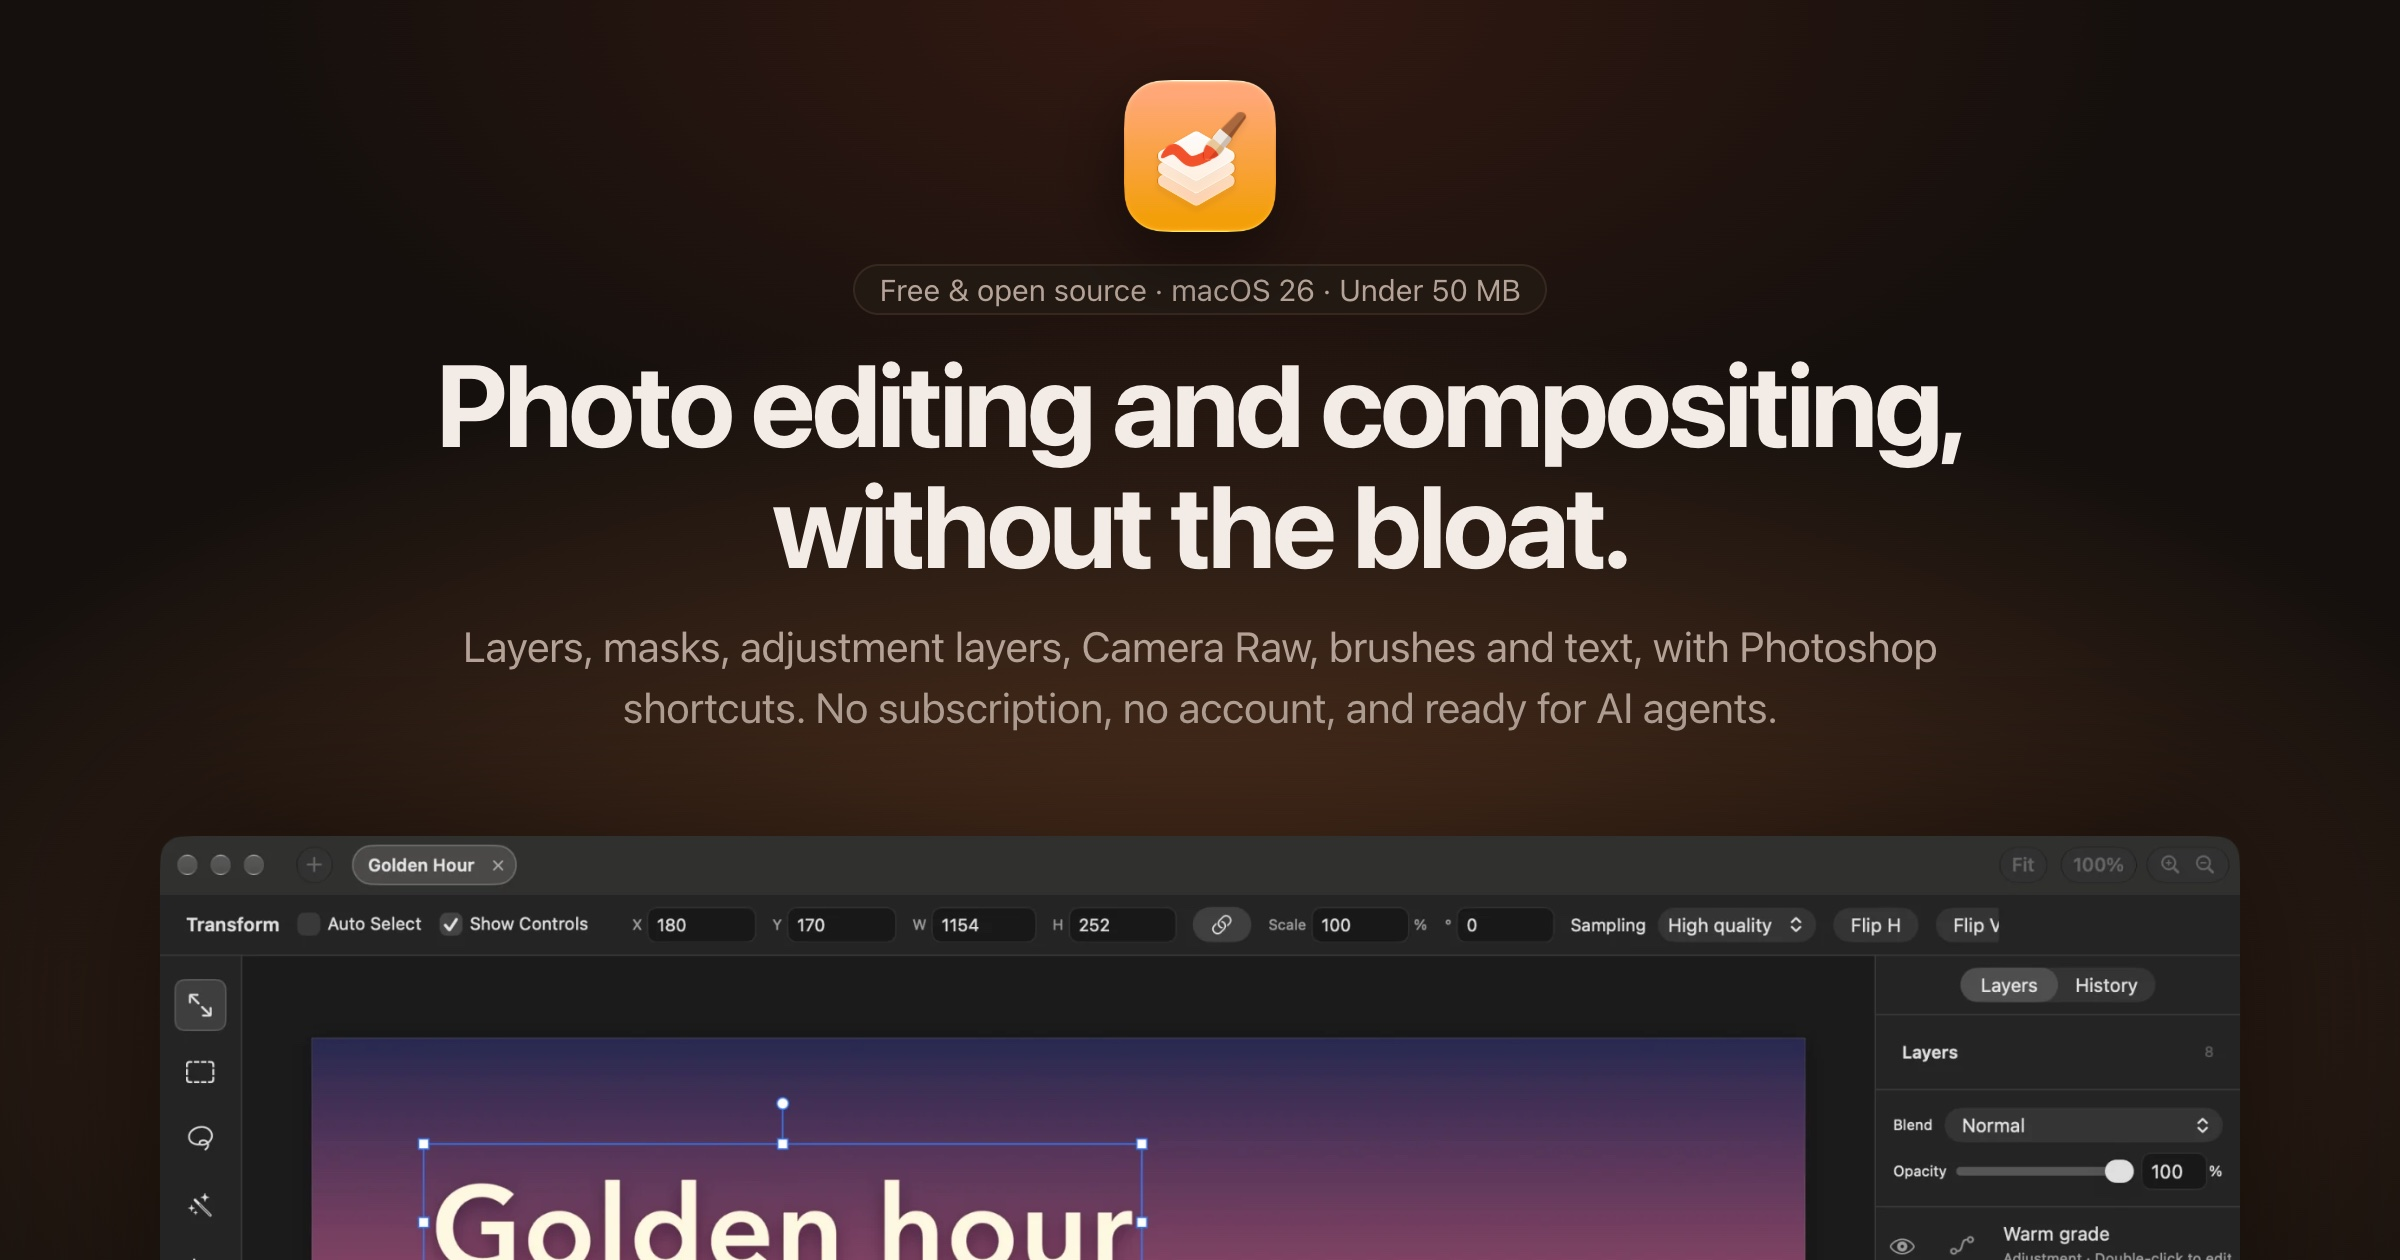
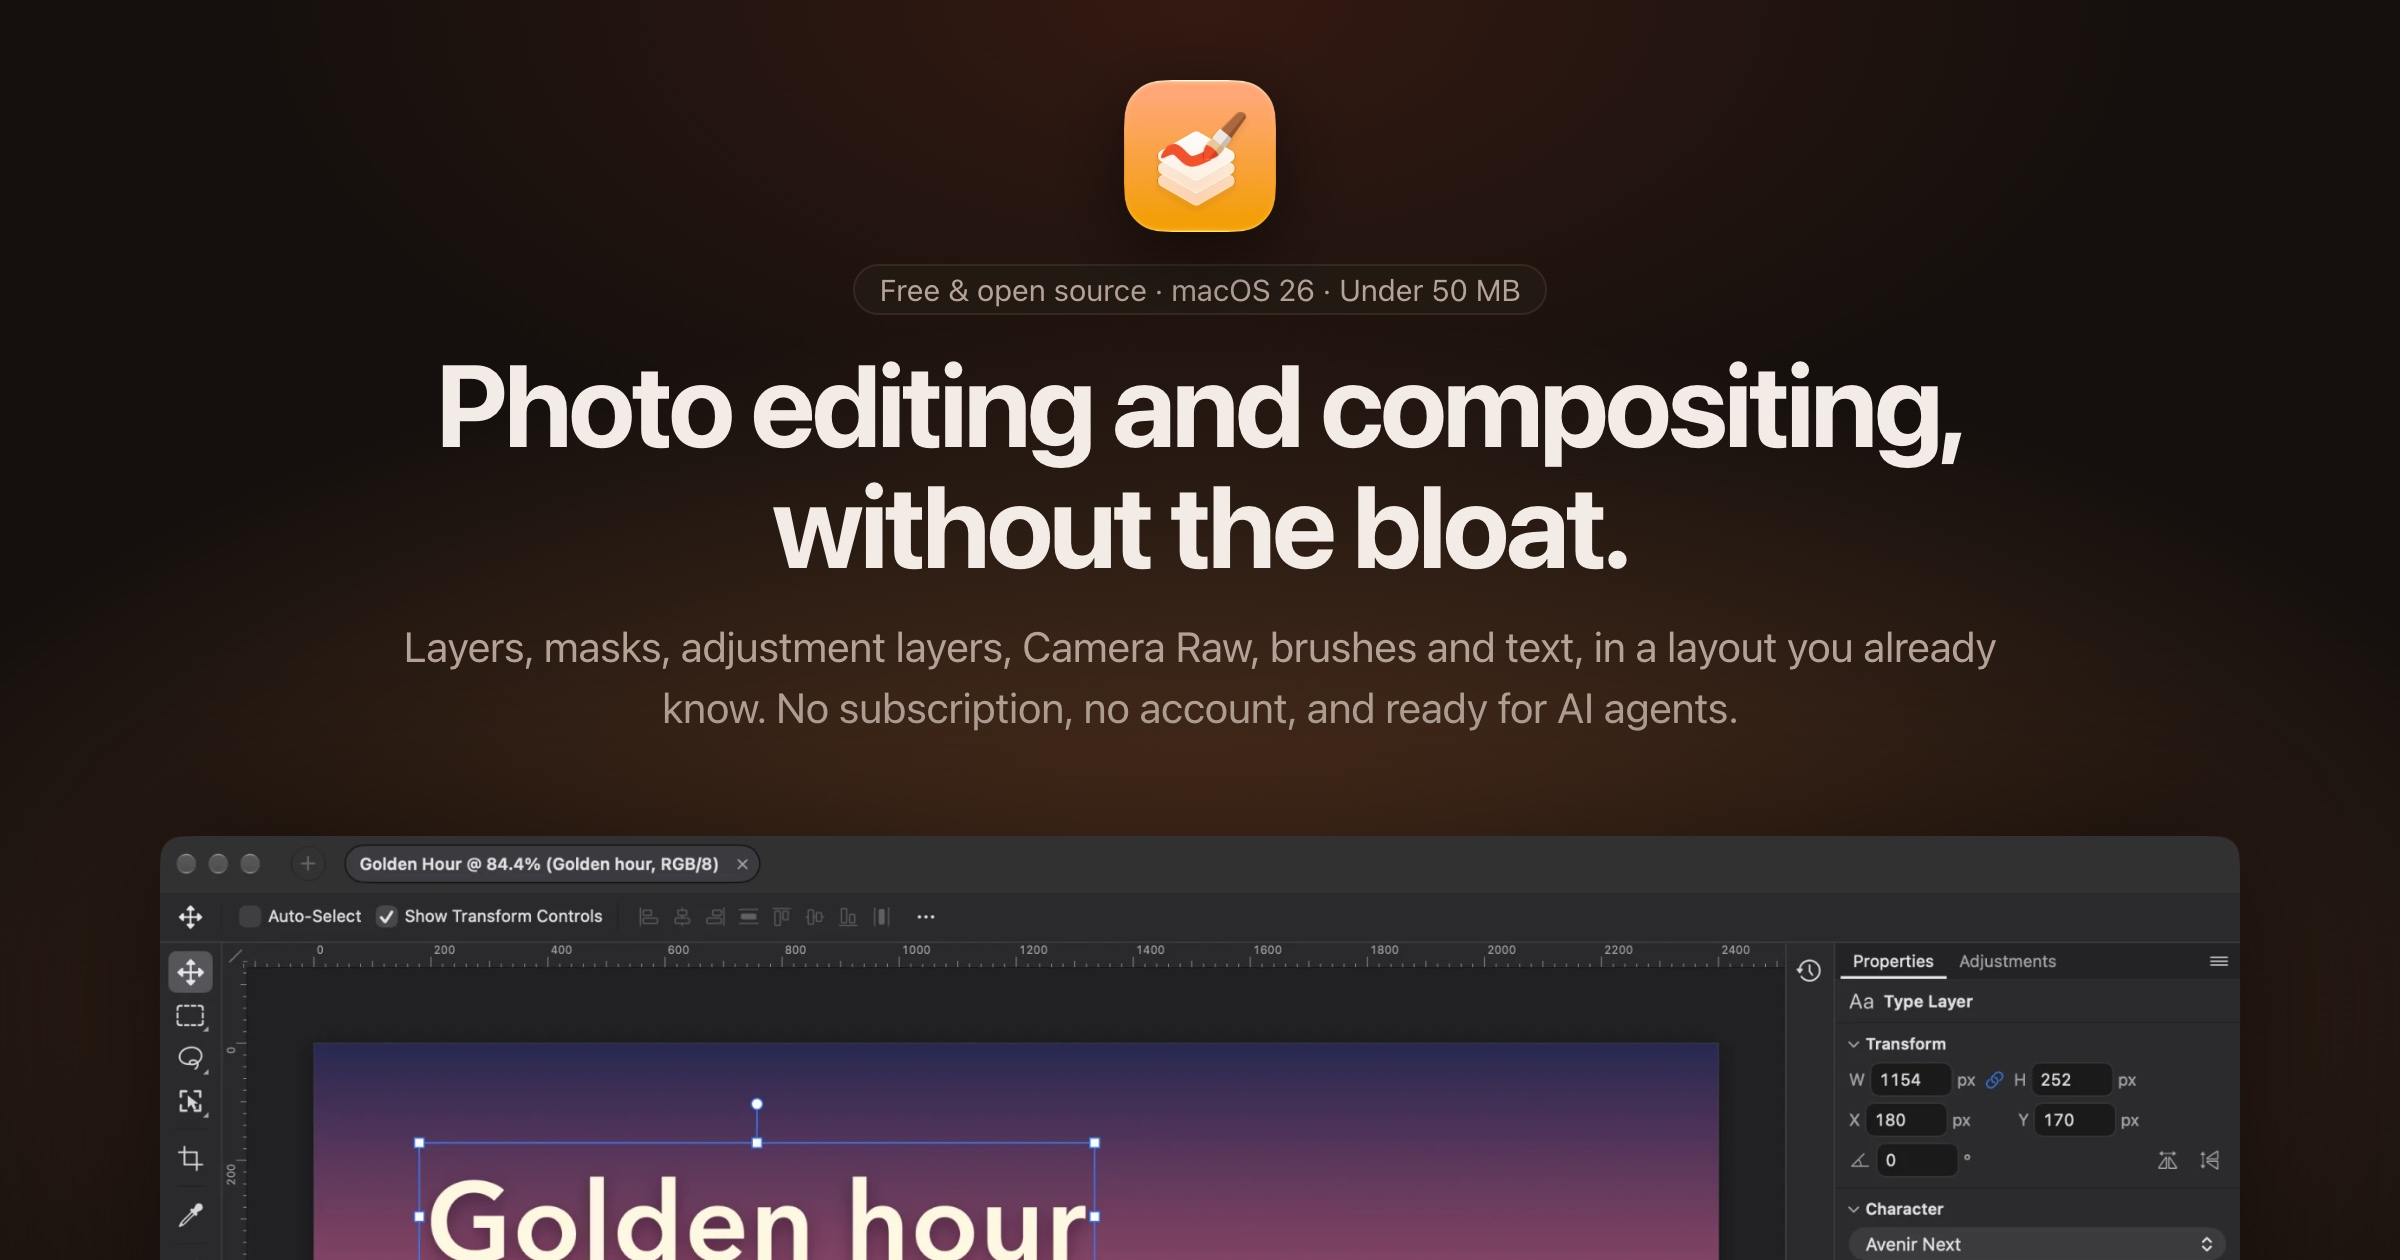
feat(web): social card with the familiar workspace and its new intro line

diff --git a/scripts/og-image.html b/scripts/og-image.html
@@ -81,8 +81,8 @@
     <p class="pill">Free &amp; open source · macOS 26 · Under 50 MB</p>
     <h1>Photo editing and compositing,<br />without the bloat.</h1>
     <p class="lead">
-      Layers, masks, adjustment layers, Camera Raw, brushes and text, with Photoshop shortcuts. No subscription, no
-      account, and ready for AI agents.
+      Layers, masks, adjustment layers, Camera Raw, brushes and text, in a layout you already know. No subscription,
+      no account, and ready for AI agents.
     </p>
     <img class="shot" src="../web/assets/screenshot.webp" alt="" />
   </body>
